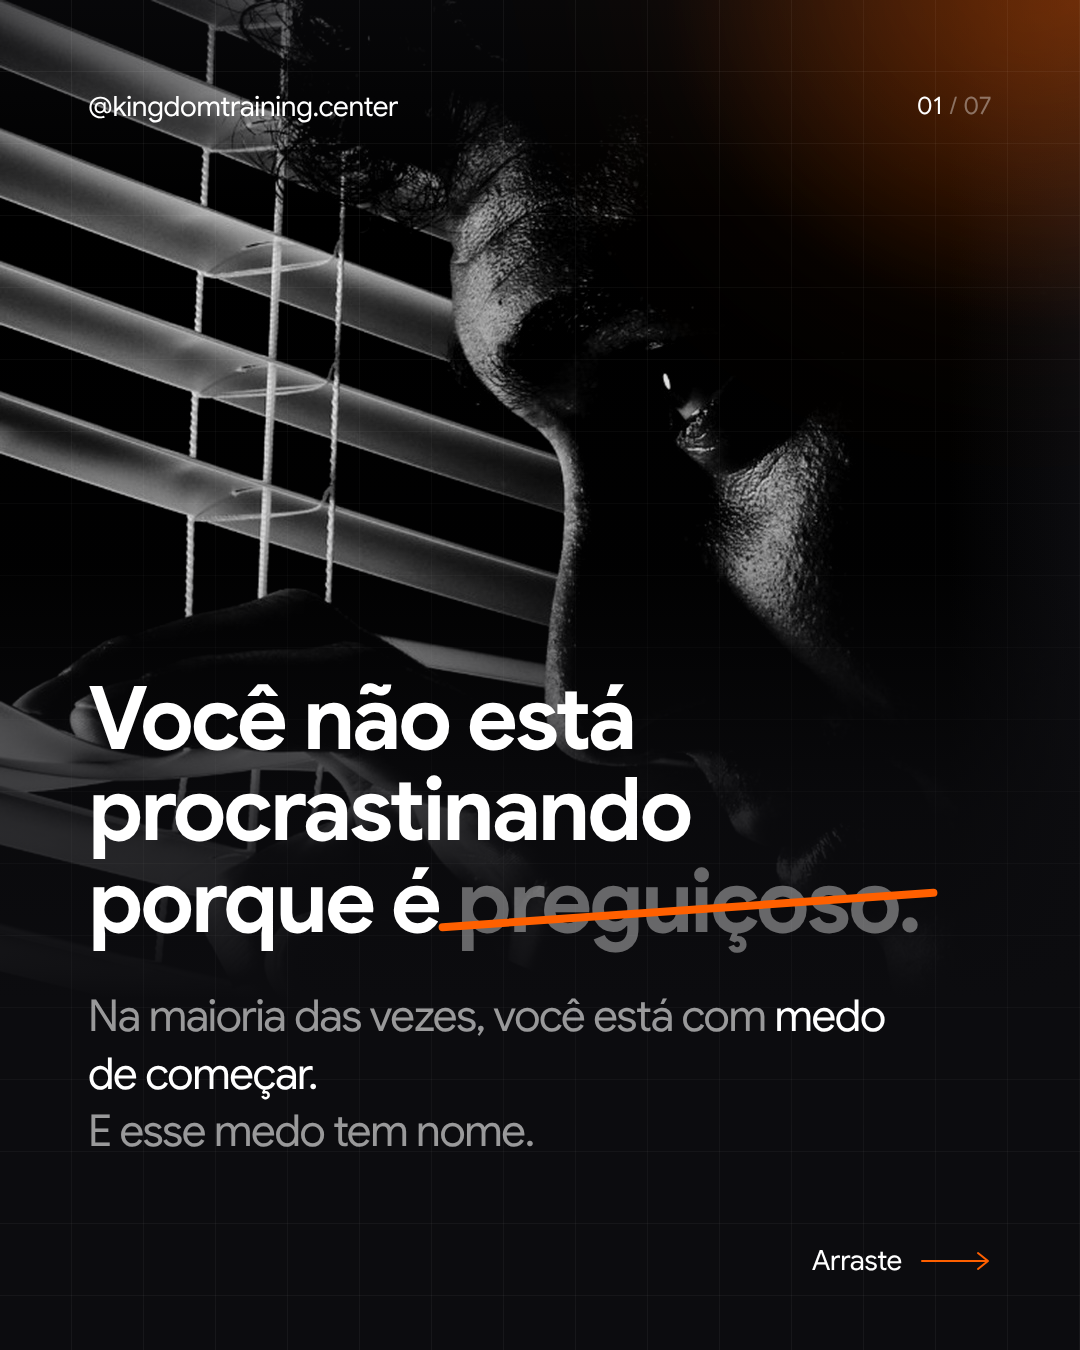
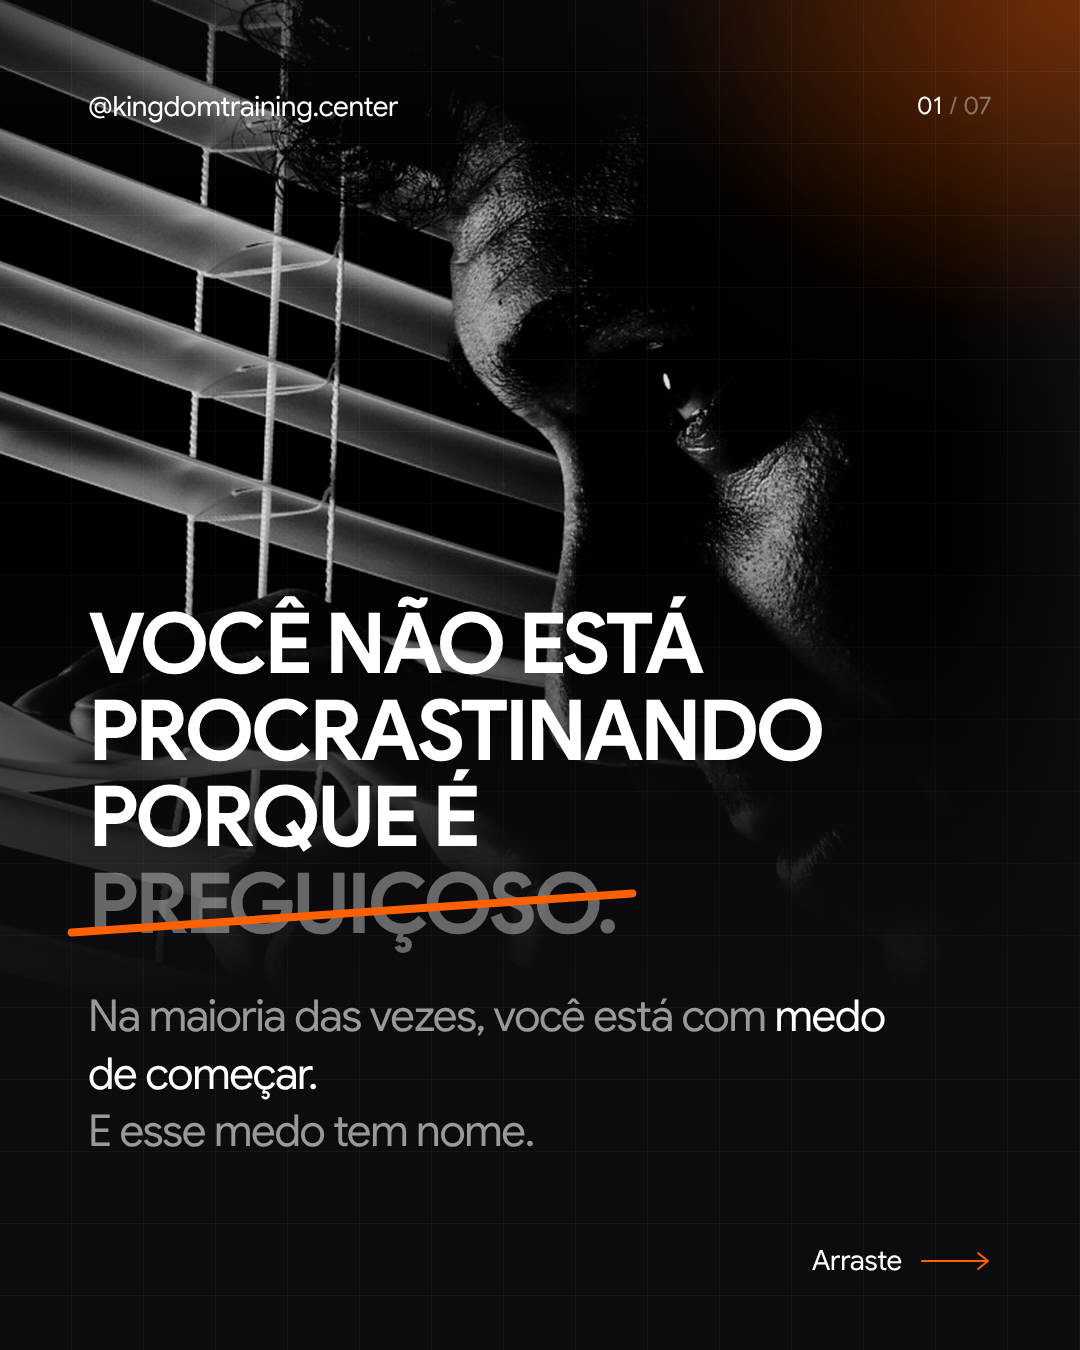
Carrossel 1: títulos em caixa alta com letras condensadas
Claude-Session: https://claude.ai/code/session_01RgmbLLVHoJT5B4GNygU6zs

Changed region(s): [[0.0611, 0.4356, 0.8556, 0.7156]]

diff --git a/content/carrosseis/01-medo-procrastinar/carrossel.html b/content/carrosseis/01-medo-procrastinar/carrossel.html
@@ -51,9 +51,9 @@ body{ width:7560px; height:1350px; overflow:hidden; font-family:var(--font); col
 .eyebrow::before{ content:""; width:12px; height:12px; border-radius:50%; background:var(--accent);
   box-shadow:0 0 0 7px var(--accent-dim); }
 
-h1,h2{ font-weight:700; letter-spacing:-0.035em; color:var(--white); }
-h1{ font-size:112px; line-height:1.02; }
-h2{ font-size:80px; line-height:1.06; }
+h1,h2{ font-weight:700; letter-spacing:-0.05em; text-transform:uppercase; color:var(--white); }
+h1{ font-size:104px; line-height:1.03; }
+h2{ font-size:68px; line-height:1.05; }
 .acc{ color:var(--accent); }
 .lead{ font-size:44px; line-height:1.3; letter-spacing:-0.03em; color:var(--muted); font-weight:400; }
 .lead strong{ color:var(--white); font-weight:400; }
@@ -75,11 +75,11 @@ h2{ font-size:80px; line-height:1.06; }
 
 /* slide 2: os quatro medos */
 .fears{ display:flex; flex-direction:column; gap:22px; margin-bottom:56px; }
-.fears li{ list-style:none; font-size:64px; line-height:1.08; letter-spacing:-0.03em; font-weight:700; }
+.fears li{ list-style:none; font-size:60px; line-height:1.06; letter-spacing:-0.05em; font-weight:700; text-transform:uppercase; }
 .fears li span{ color:var(--muted-2); }
 
 /* slide 3: a mentira */
-.quote{ font-size:132px; line-height:1; letter-spacing:-0.04em; font-weight:700; margin:34px 0 56px;
+.quote{ font-size:118px; line-height:1.02; letter-spacing:-0.055em; font-weight:700; text-transform:uppercase; margin:34px 0 56px;
   padding:42px 0 46px; border-top:1px solid var(--line); border-bottom:1px solid var(--line); }
 .quote .q{ color:var(--accent); }
 
@@ -140,7 +140,7 @@ h2{ font-size:80px; line-height:1.06; }
     linear-gradient(180deg, rgba(12,12,15,.6) 0%, rgba(12,12,15,0) 16%, rgba(12,12,15,.1) 42%, rgba(12,12,15,.8) 60%, #0C0C0F 74%),
     linear-gradient(90deg, transparent 88%, #0C0C0F 100%); }
 .slide.cover .body{ top:auto; bottom:190px; }
-.slide.cover h1{ font-size:88px; line-height:1.04; }
+.slide.cover h1{ font-size:84px; line-height:1.03; }
 .handle{ font-size:28px; letter-spacing:-0.01em; color:var(--white); }
 </style>
 </head>
@@ -251,7 +251,7 @@ h2{ font-size:80px; line-height:1.06; }
     </div>
     <div class="body">
       <div class="eyebrow">O método</div>
-      <h2 style="font-size:72px">A resposta precisa ser <span class="acc">pequena o suficiente</span> para não assustar.</h2>
+      <h2 style="font-size:66px">A resposta precisa ser <span class="acc">pequena o suficiente</span> para não assustar.</h2>
       <div class="pairs">
         <div class="pair"><span class="no">Não escreva o projeto inteiro.</span><span class="arr"><svg><use href="#i-arrow"/></svg></span><span class="yes">Escreva o primeiro parágrafo.</span></div>
         <div class="pair"><span class="no">Não estude três horas.</span><span class="arr"><svg><use href="#i-arrow"/></svg></span><span class="yes">Estude dez minutos.</span></div>
